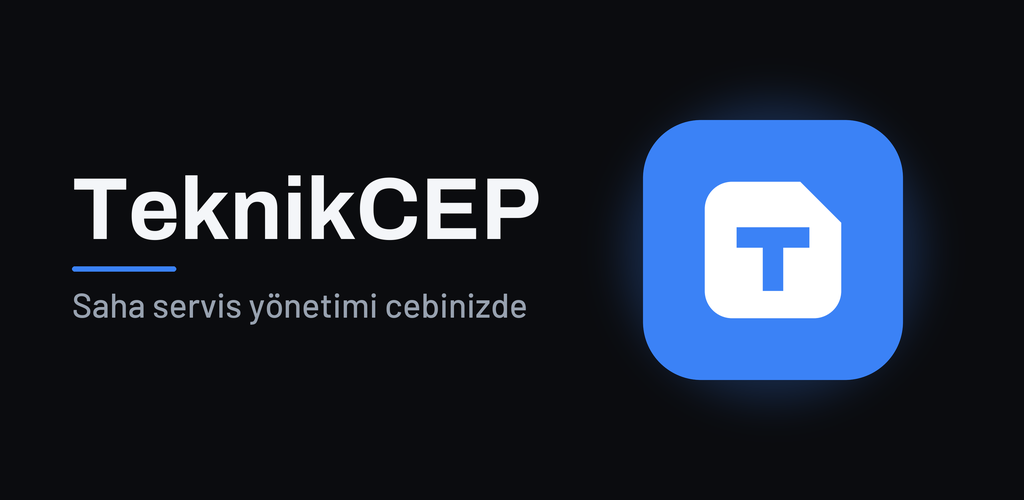
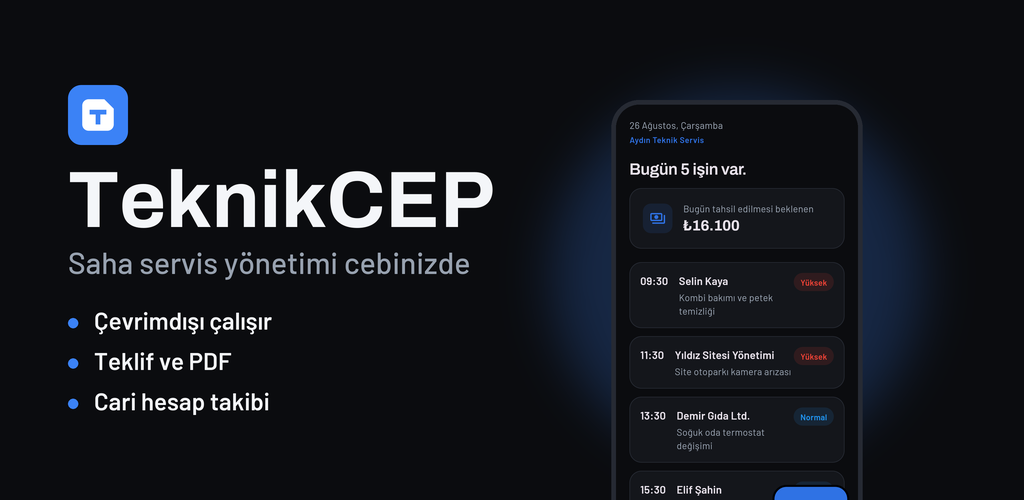
feat: mağaza afişi ürünü göstersin
Yalnızca logo ve slogan taşıyan bir afiş, kullanıcıya uygulamanın neye
benzediği hakkında hiçbir şey söylemiyor; mağazada karar veren şey
ekranın kendisi. Afişteki telefon maketinde uygulamanın GERÇEK pano
ekranı duruyor — çizilmiş bir taklidi değil, ekran görüntüsü
koşumunun ürettiği dosyanın kendisi.

Maket alttan taşıyor: tamamı sığdırılsaydı küçük kalır ve ekrandaki
hiçbir şey okunmazdı.

Üç kısa vaat eklendi. Afiş küçük boyutlarda da gösteriliyor; uzun
cümle orada tamamen kayboluyor.

diff --git a/assets/branding/generate_feature_graphic.py b/assets/branding/generate_feature_graphic.py
@@ -4,10 +4,17 @@ Eski surum logoyu Pillow ile CIZIYORDU ve uzerinde "ServisCEP" yaziyordu.
 Marka SVG'ye tasindiginda o kod olu bir ikinci tanim haline geldi:
 calistirilsa hem eski logoyu hem eski adi geri getirirdi.
 
-Artik isaret marka SVG'sinden, renkler ve yazi tipleri uygulamanin kendi
-tasarim sisteminden geliyor (mobile/lib/app/palette.dart ve
-mobile/assets/fonts). Magaza afisi uygulamanin ilk izlenimi — ayri bir
-gorsel dilde olmasi icin sebep yok.
+Afis URUNU gosteriyor. Yalnizca logo ve slogan tasiyan bir afis,
+kullaniciya uygulamanin neye benzedigi hakkinda hicbir sey soylemiyor;
+magazada karar veren sey ekranin kendisi. Telefon maketindeki goruntu
+mobile/build/store/01-pano.png — yani afiste gorunen ekran uygulamanin
+GERCEK ekrani, cizilmis bir taklidi degil.
+
+Renkler ve yazi tipleri uygulamanin tasarim sisteminden
+(mobile/lib/app/palette.dart, mobile/assets/fonts). Magaza afisi
+uygulamanin ilk izlenimi — ayri bir gorsel dilde olmasi icin sebep yok.
+
+Onkosul: mobile/ dizininde `flutter test test/store` (ham ekranlari uretir)
 
 Kullanim:
     python assets/branding/generate_feature_graphic.py
@@ -25,75 +32,146 @@ from generate_assets import rasterlestir
 
 KOK = os.path.dirname(os.path.dirname(os.path.dirname(os.path.abspath(__file__))))
 ISARET = os.path.join(KOK, "mobile", "assets", "brand", "teknikcep-b-plaka-appicon-512.svg")
+EKRAN = os.path.join(KOK, "mobile", "build", "store", "01-pano.png")
 FONTLAR = os.path.join(KOK, "mobile", "assets", "fonts")
 CIKTI = os.path.join(KOK, "assets", "branding", "play-feature-graphic.png")
 
 # palette.dart § dark
 ZEMIN = (0x0B, 0x0C, 0x0F)
+YUZEY = (0x14, 0x16, 0x1B)
+KENARLIK = (0x26, 0x2A, 0x33)
 METIN = (0xF4, 0xF6, 0xF9)
 SOLUK = (0x98, 0xA2, 0xB0)
 AKSAN = (0x3B, 0x82, 0xF6)
 
 EN, BOY = 1024, 500
 
-# Metin ve isaret, olceklenmis tuvale cizilip sona kuculuyor — Pillow'un
+# Metin ve isaret olceklenmis tuvale cizilip sona kuculuyor — Pillow'un
 # kenar yumusatmasi bu boyutta yetersiz kaliyor.
 KAT = 3
+
+# Uc kisa vaat, tam cumleden daha hizli okunuyor. Afis kucuk boyutlarda
+# da gosteriliyor; uzun metin orada tamamen kayboluyor.
+VAATLER = ["Çevrimdışı çalışır", "Teklif ve PDF", "Cari hesap takibi"]
+
+
+def font(ad: str, punto: int) -> ImageFont.FreeTypeFont:
+    return ImageFont.truetype(os.path.join(FONTLAR, ad), punto)
+
+
+def telefon_maketi(yukseklik: int) -> Image.Image:
+    """Ekran goruntusunu ince cerceveli bir telefon govdesine yerlestirir."""
+    ham = Image.open(EKRAN).convert("RGB")
+
+    cerceve = max(2, yukseklik // 90)
+    ic_yukseklik = yukseklik - cerceve * 2
+    olcek = ic_yukseklik / ham.height
+    ic_genislik = int(ham.width * olcek)
+    ekran = ham.resize((ic_genislik, ic_yukseklik), Image.LANCZOS)
+
+    genislik = ic_genislik + cerceve * 2
+    yaricap = genislik // 9
+
+    govde = Image.new("RGBA", (genislik, yukseklik), (0, 0, 0, 0))
+    d = ImageDraw.Draw(govde)
+    d.rounded_rectangle(
+        [0, 0, genislik - 1, yukseklik - 1], radius=yaricap, fill=YUZEY + (255,)
+    )
+
+    # Ekran ic yaricapla kirpiliyor; aksi halde koseleri govdenin disina
+    # tasiyor ve cerceve kirik gorunuyor.
+    maske = Image.new("L", ekran.size, 0)
+    ImageDraw.Draw(maske).rounded_rectangle(
+        [0, 0, ekran.width - 1, ekran.height - 1],
+        radius=max(1, yaricap - cerceve),
+        fill=255,
+    )
+    govde.paste(ekran, (cerceve, cerceve), maske)
+
+    d.rounded_rectangle(
+        [0, 0, genislik - 1, yukseklik - 1],
+        radius=yaricap,
+        outline=KENARLIK + (255,),
+        width=cerceve,
+    )
+    return govde
 
 
 def main() -> None:
     w, h = EN * KAT, BOY * KAT
     tuval = Image.new("RGBA", (w, h), ZEMIN + (255,))
 
-    # İşaretin arkasında yumuşak bir aksan halesi: düz koyu zeminde
-    # 1024x500'lük bir afiş cansız duruyor.
+    # Telefonun arkasinda yumusak aksan halesi: duz koyu zeminde koyu bir
+    # maket zeminden ayrilmiyor.
     hale = Image.new("RGBA", (w, h), (0, 0, 0, 0))
-    hd = ImageDraw.Draw(hale)
-    hcx, hcy, hr = int(w * 0.755), h // 2, int(w * 0.16)
-    hd.ellipse([hcx - hr, hcy - hr, hcx + hr, hcy + hr], fill=AKSAN + (64,))
-    tuval = Image.alpha_composite(tuval, hale.filter(ImageFilter.GaussianBlur(w * 0.025)))
+    hcx, hcy, hr = int(w * 0.72), int(h * 0.55), int(w * 0.20)
+    ImageDraw.Draw(hale).ellipse(
+        [hcx - hr, hcy - hr, hcx + hr, hcy + hr], fill=AKSAN + (58,)
+    )
+    tuval = Image.alpha_composite(tuval, hale.filter(ImageFilter.GaussianBlur(w * 0.03)))
 
-    isaret_boyut = int(260 * KAT)
-    isaret = rasterlestir(open(ISARET, encoding="utf-8").read(), isaret_boyut)
-    tuval.paste(isaret, (hcx - isaret_boyut // 2, hcy - isaret_boyut // 2), isaret)
+    # Maket ALTTAN tasiyor. Tamami sigdirilsaydi kucuk kalir ve ekrandaki
+    # hicbir sey okunmazdi; tasan maket hem daha buyuk hem "devami var"
+    # hissi veriyor.
+    maket = telefon_maketi(int(h * 0.88))
+    tuval.paste(maket, (hcx - maket.width // 2, int(h * 0.20)), maket)
 
     d = ImageDraw.Draw(tuval)
-    baslik = ImageFont.truetype(os.path.join(FONTLAR, "Archivo-Bold.ttf"), 88 * KAT)
-    slogan = ImageFont.truetype(os.path.join(FONTLAR, "Barlow-Medium.ttf"), 34 * KAT)
+    baslik_font = font("Archivo-Bold.ttf", 80 * KAT)
+    slogan_font = font("Barlow-Medium.ttf", 30 * KAT)
+    vaat_font = font("Barlow-SemiBold.ttf", 24 * KAT)
 
-    sol = 72 * KAT
+    sol = 68 * KAT
+    isaret_olcu = 60 * KAT
+    isaret = rasterlestir(open(ISARET, encoding="utf-8").read(), isaret_olcu)
 
-    # Dikey yerleşim ÖLÇÜLEREK yapılıyor, sabit sayılarla değil: yazı tipi
-    # ya da punto değiştiğinde sabitler sessizce üst üste biner. İlk
-    # denemede aksan çizgisi tam da böyle başlığın üstüne düşmüştü.
     baslik_metni = "TeknikCEP"
     slogan_metni = "Saha servis yönetimi cebinizde"
 
-    bk = d.textbbox((0, 0), baslik_metni, font=baslik)
-    sk = d.textbbox((0, 0), slogan_metni, font=slogan)
+    bk = d.textbbox((0, 0), baslik_metni, font=baslik_font)
+    sk = d.textbbox((0, 0), slogan_metni, font=slogan_font)
+    vk = d.textbbox((0, 0), VAATLER[0], font=vaat_font)
+
     baslik_y = bk[3] - bk[1]
     slogan_y = sk[3] - sk[1]
+    vaat_y = vk[3] - vk[1]
 
-    cizgi_bosluk = 26 * KAT
-    cizgi_kalinlik = 5 * KAT
-    slogan_bosluk = 22 * KAT
+    # Dikey yerlesim OLCULEREK yapiliyor, sabit sayilarla degil: yazi tipi
+    # ya da punto degistiginde sabitler sessizce ust uste biniyor. Ilk
+    # denemede aksan cizgisi tam da boyle basligin ustune dusmustu.
+    b1 = 24 * KAT
+    b2 = 32 * KAT
+    satir_araligi = 18 * KAT
+    vaat_blogu = vaat_y * len(VAATLER) + satir_araligi * (len(VAATLER) - 1)
 
-    toplam = baslik_y + cizgi_bosluk + cizgi_kalinlik + slogan_bosluk + slogan_y
+    toplam = isaret_olcu + b1 + baslik_y + b1 + slogan_y + b2 + vaat_blogu
     ust = (h - toplam) // 2
 
-    d.text((sol, ust - bk[1]), baslik_metni, font=baslik, fill=METIN)
+    tuval.paste(isaret, (sol, ust), isaret)
+    y = ust + isaret_olcu + b1
 
-    cizgi_ust = ust + baslik_y + cizgi_bosluk
-    d.rounded_rectangle(
-        [sol, cizgi_ust, sol + 104 * KAT, cizgi_ust + cizgi_kalinlik],
-        radius=cizgi_kalinlik // 2,
-        fill=AKSAN,
-    )
+    d.text((sol, y - bk[1]), baslik_metni, font=baslik_font, fill=METIN)
+    y += baslik_y + b1
 
-    slogan_ust = cizgi_ust + cizgi_kalinlik + slogan_bosluk
-    d.text((sol, slogan_ust - sk[1]), slogan_metni, font=slogan, fill=SOLUK)
+    d.text((sol, y - sk[1]), slogan_metni, font=slogan_font, fill=SOLUK)
+    y += slogan_y + b2
 
-    # Play afişi saydamlık kabul etmiyor; RGB'ye düşürülüyor.
+    for metin in VAATLER:
+        nokta_r = 5 * KAT
+        nokta_y = y + vaat_y // 2
+        d.ellipse(
+            [sol, nokta_y - nokta_r, sol + nokta_r * 2, nokta_y + nokta_r], fill=AKSAN
+        )
+        kutu = d.textbbox((0, 0), metin, font=vaat_font)
+        d.text(
+            (sol + nokta_r * 2 + 16 * KAT, y - kutu[1]),
+            metin,
+            font=vaat_font,
+            fill=METIN,
+        )
+        y += vaat_y + satir_araligi
+
+    # Play afisi saydamlik kabul etmiyor; RGB'ye dusuruluyor.
     tuval.resize((EN, BOY), Image.LANCZOS).convert("RGB").save(CIKTI)
     print(f"Tamamlandi: {CIKTI} ({EN}x{BOY})")
 
